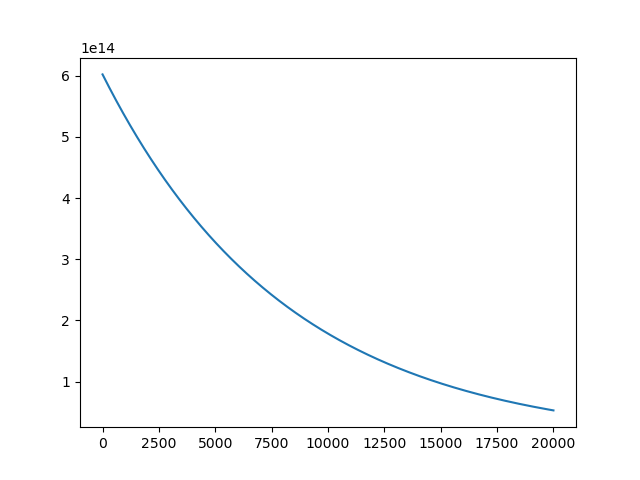
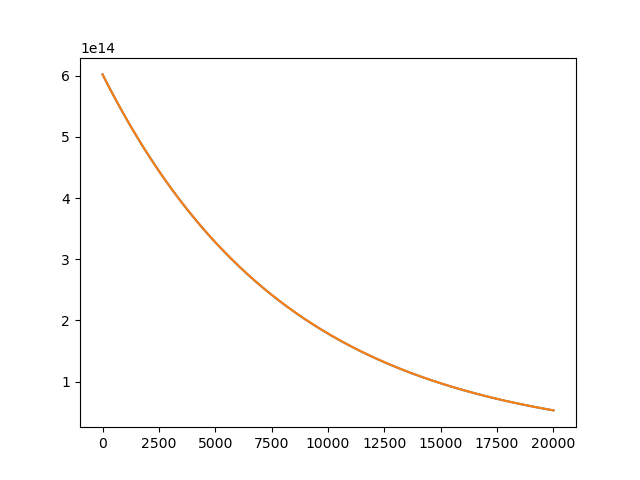
final commit of project 2

diff --git a/carbon.py b/carbon.py
@@ -27,7 +27,13 @@ def makexSpace(stepsize,years):
 years=20000
 
 def plotEQ(stepsize,years):
+    xSpace=makexSpace(stepsize,years)
     plt.plot(makexSpace(stepsize,years),euler(N0,stepsize,years))
+
+    ySpace = []
+    for i in range(len(xSpace)):
+        ySpace.append(N0*math.e**(-xSpace[i]/tao))
+    plt.plot(xSpace,ySpace)
     pass
 
 def pdiffatxyears(stepsize1,stepsize2,year):
